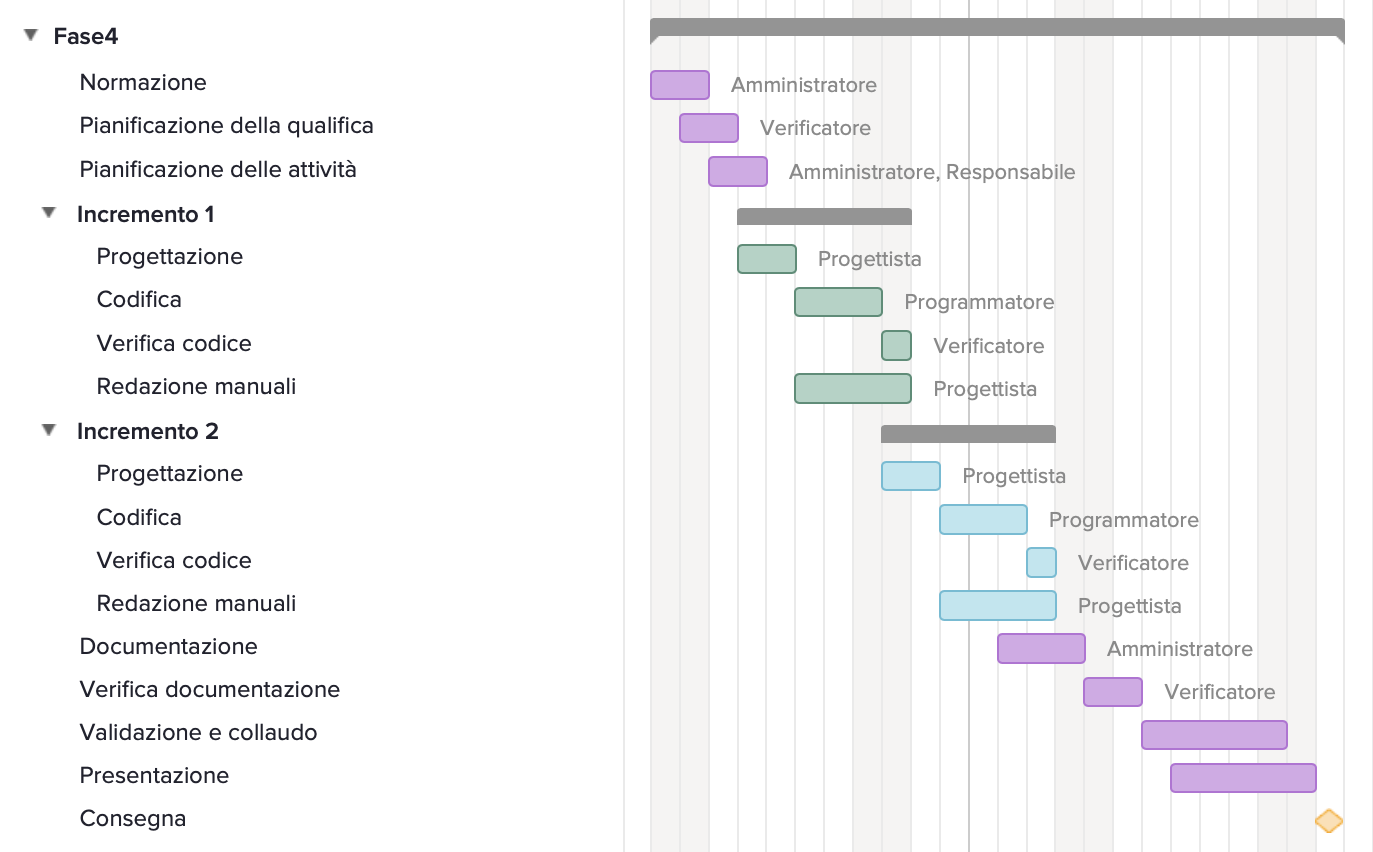
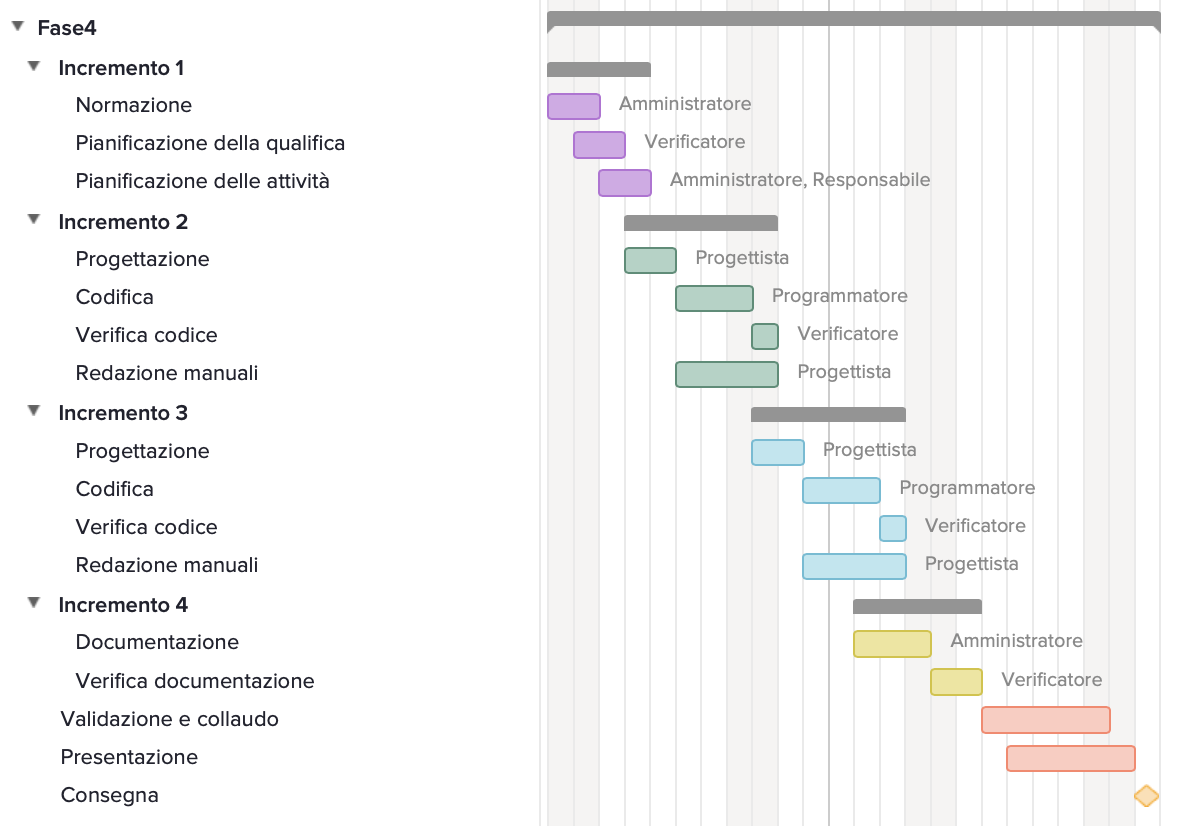
modificati gantt

Changed region(s): [[0.458, 0.0, 1.0, 1.0], [0.0305, 0.3935, 0.2748, 0.9988], [0.0, 0.0303, 0.3053, 0.3632]]

diff --git a/docs/PdP/periodo_real.tex b/docs/PdP/periodo_real.tex
@@ -3,10 +3,7 @@ Nella fase 3 hanno luogo le seguenti attività:
 	\item normazione: modifiche alle \textit{NormeDiProgetto\_v2.0.0} secondo quanto segnalato alla Revisione di progettazione. Si procede poi con il suo incremento;
 	\item pianificazione della qualifica: modifiche al \textit{PianoDiQualifica\_v2.0.0} secondo quanto segnalato alla Revisione di Progettazione. Si procede poi con il suo incremento;
 	\item pianificazione delle attività: modifiche al \textit{PianoDiProgetto\_v2.0.0} secondo quanto segnalato alla Revisione di progettazione;
-	\item progettazione in dettaglio e Product Baseline: questa attività consiste nella progettazione del prodotto tramite diagrammi delle classi e di sequenza, incrementando quanto sviluppato nel PoC.
-	\item codifica: realizzazione del prodotto;
-	\item verifica per il colloquio: verifica del codice scritto in vista del colloquio Agile con il committente;
-	\item colloquio: viene effettuato il colloquio con il committente;
+	\item Incrementi 1,2 e 3
 	\item redazione manuali: redazione \textit{Manuale Utente} e \textit{Manuale Sviluppatore};
 	\item incremento progettazione e codifica: in base alle segnalazioni ricevute al colloquio con il committente viene eseguito l'eventuale incremento;
 	\item incremento della pianificazione delle attività: viene aggiornato il \textit{Piano di Progetto} con il consuntivo pre-finale;
@@ -43,6 +40,6 @@ Nella fase 3 hanno luogo le seguenti attività:
 
 \begin{figure}[h]
 	\centering
-	\includegraphics[scale=0.50]{images/fase3.png}
+	\includegraphics[scale=0.60]{images/fase3.png}
 	\caption{Diagramma di Gantt riguardante la fase 3}
 \end{figure}
